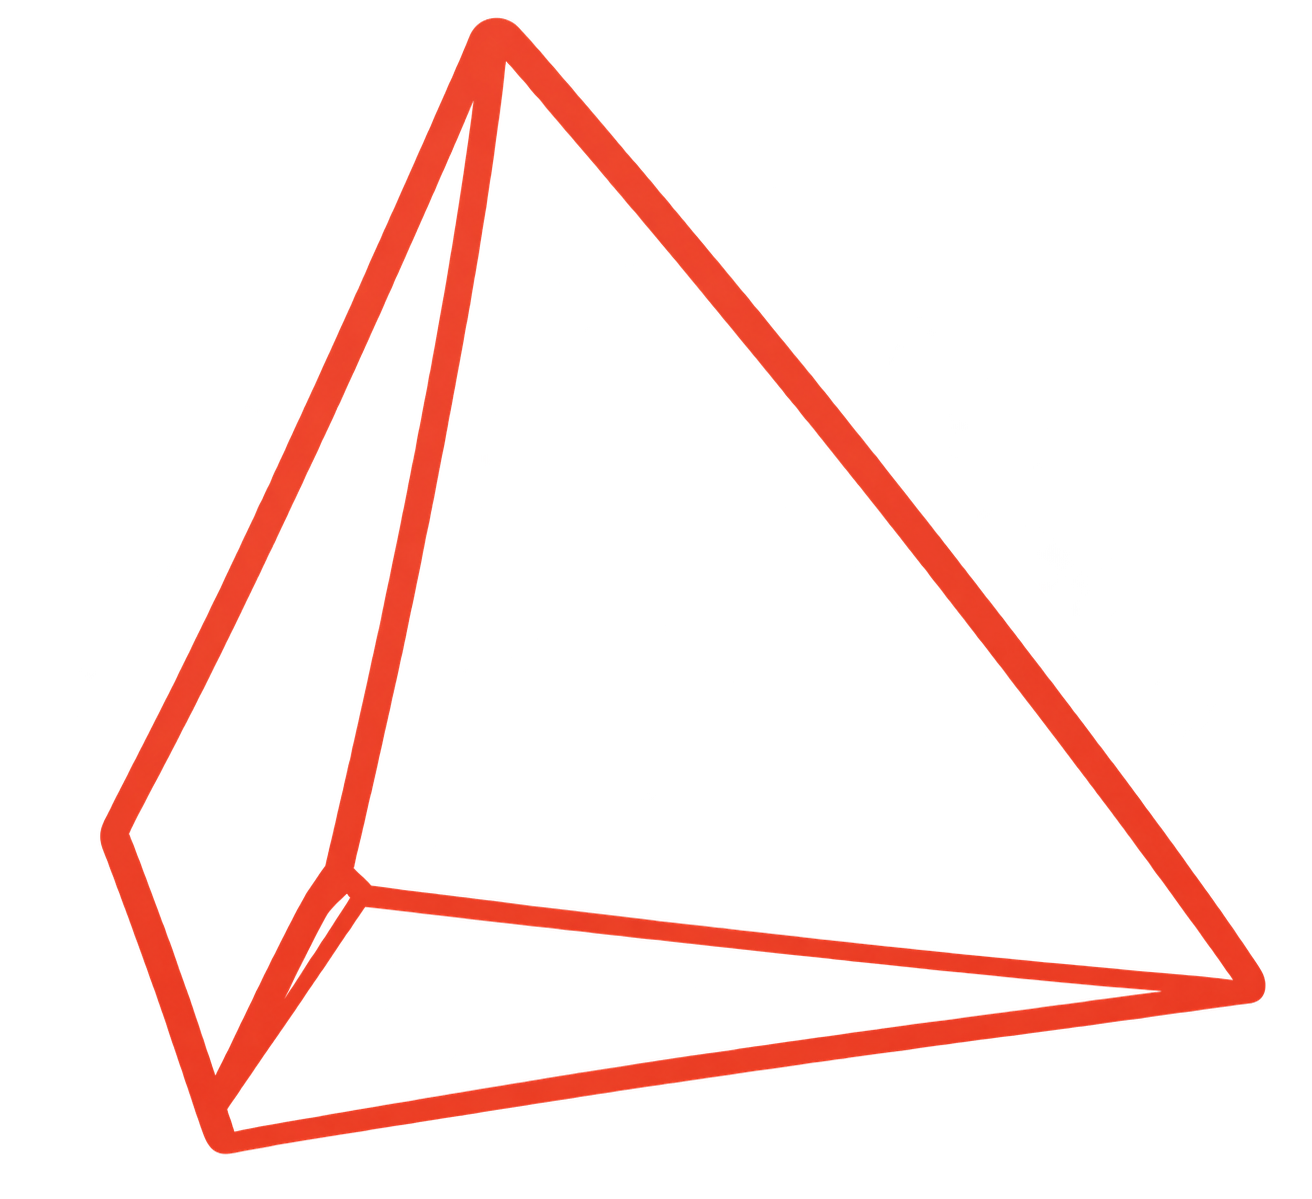
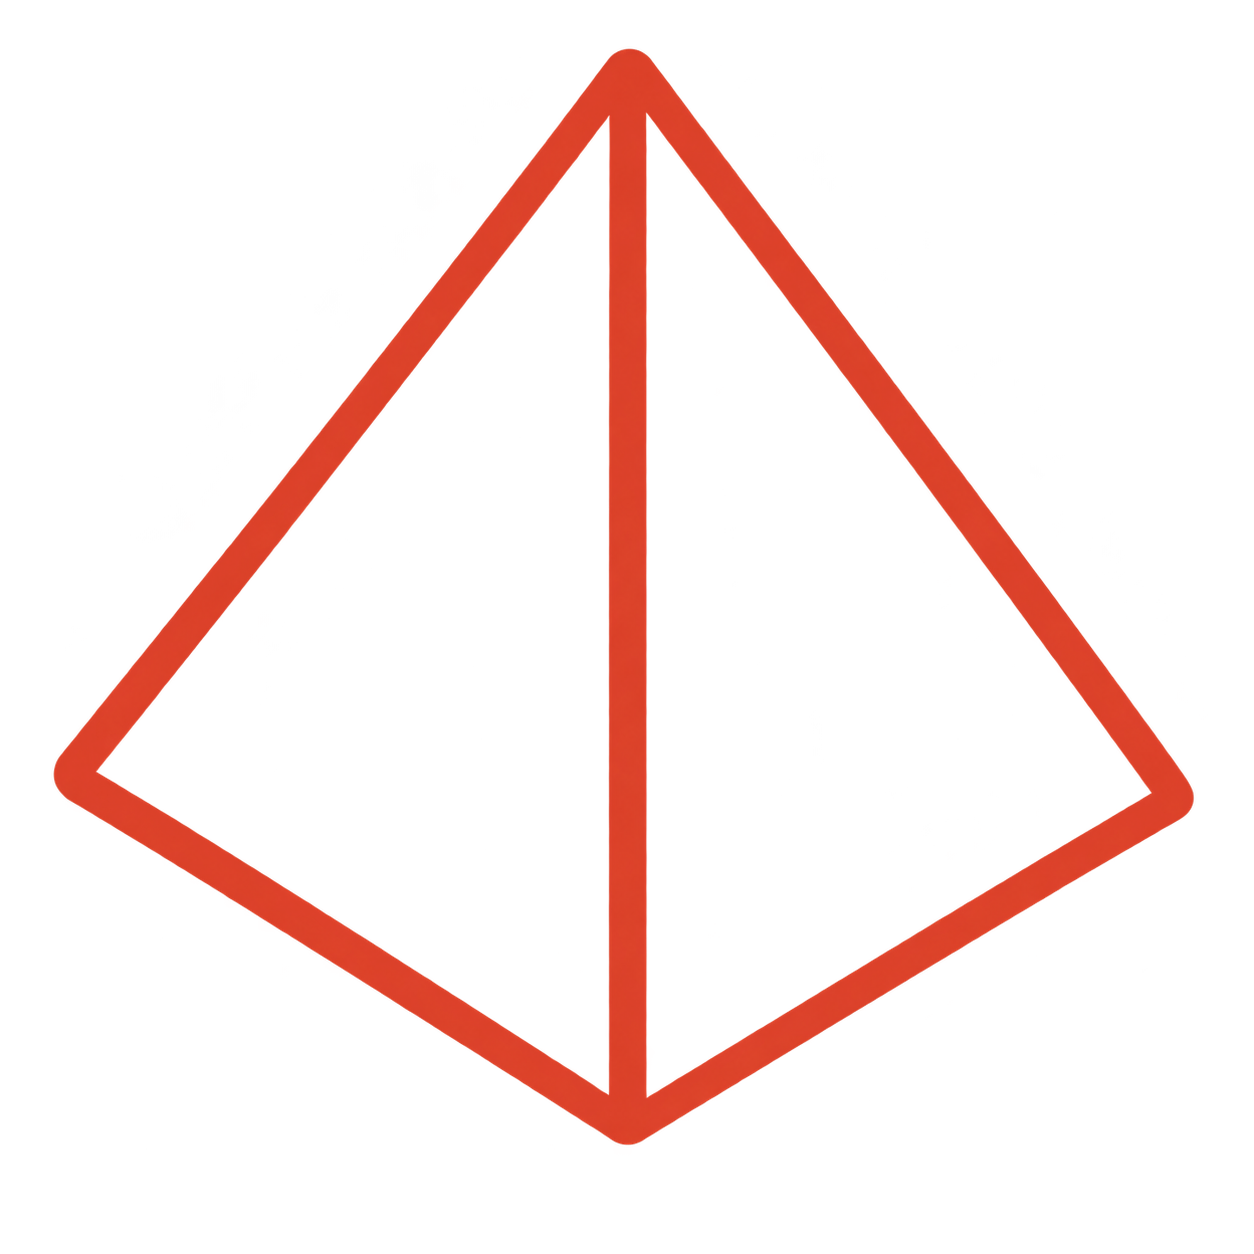
feat: add d12 dice image and update AddDiceByRank and DiceCard components to include d12 functionality

Changed region(s): [[0.0311, 0.0, 0.9641, 0.9875]]

diff --git a/src/pages/dice-roller/AddDiceByRank.tsx b/src/pages/dice-roller/AddDiceByRank.tsx
@@ -2,6 +2,7 @@ import d4 from "../../assets/images/dice/d4.png";
 import d6 from "../../assets/images/dice/d6.png";
 import d8 from "../../assets/images/dice/d8.png";
 import d10 from "../../assets/images/dice/d10.png";
+import d12 from "../../assets/images/dice/d12.png";
 
 
 type AddDiceByRankProps = {
@@ -44,7 +45,14 @@ export const AddDiceByRank = ({ addDice }: AddDiceByRankProps) => {
                     className="cursor-pointer h-5 w-5 inline-block"
                 />
             </span>
-            <span role="button" onClick={() => addDice(12)} className="cursor-pointer"> d12 </span>
+            <span >
+                <img role="button"
+                    onClick={() => addDice(12)}
+                    src={d12}
+                    alt={`d12`}
+                    className="cursor-pointer h-5 w-5 inline-block"
+                />
+            </span>
         </div>
     );
 }

diff --git a/src/pages/dice-roller/DiceCard.tsx b/src/pages/dice-roller/DiceCard.tsx
@@ -3,6 +3,7 @@ import d4 from "../../assets/images/dice/d4.png";
 import d6 from "../../assets/images/dice/d6.png";
 import d8 from "../../assets/images/dice/d8.png";
 import d10 from "../../assets/images/dice/d10.png";
+import d12 from "../../assets/images/dice/d12.png";
 
 type DieCardProps = {
   die: DiceType;
@@ -124,7 +125,7 @@ export const DieCard = ({
         >
           <img
             src={
-              die.rank === 4 ? d4 : die.rank === 6 ? d6 : die.rank === 8 ? d8 :  d10 }
+              die.rank === 4 ? d4 : die.rank === 6 ? d6 : die.rank === 8 ? d8 : die.rank === 10 ? d10 : d12 }
             alt={`D${die.rank}`}
             className="
               h-full
